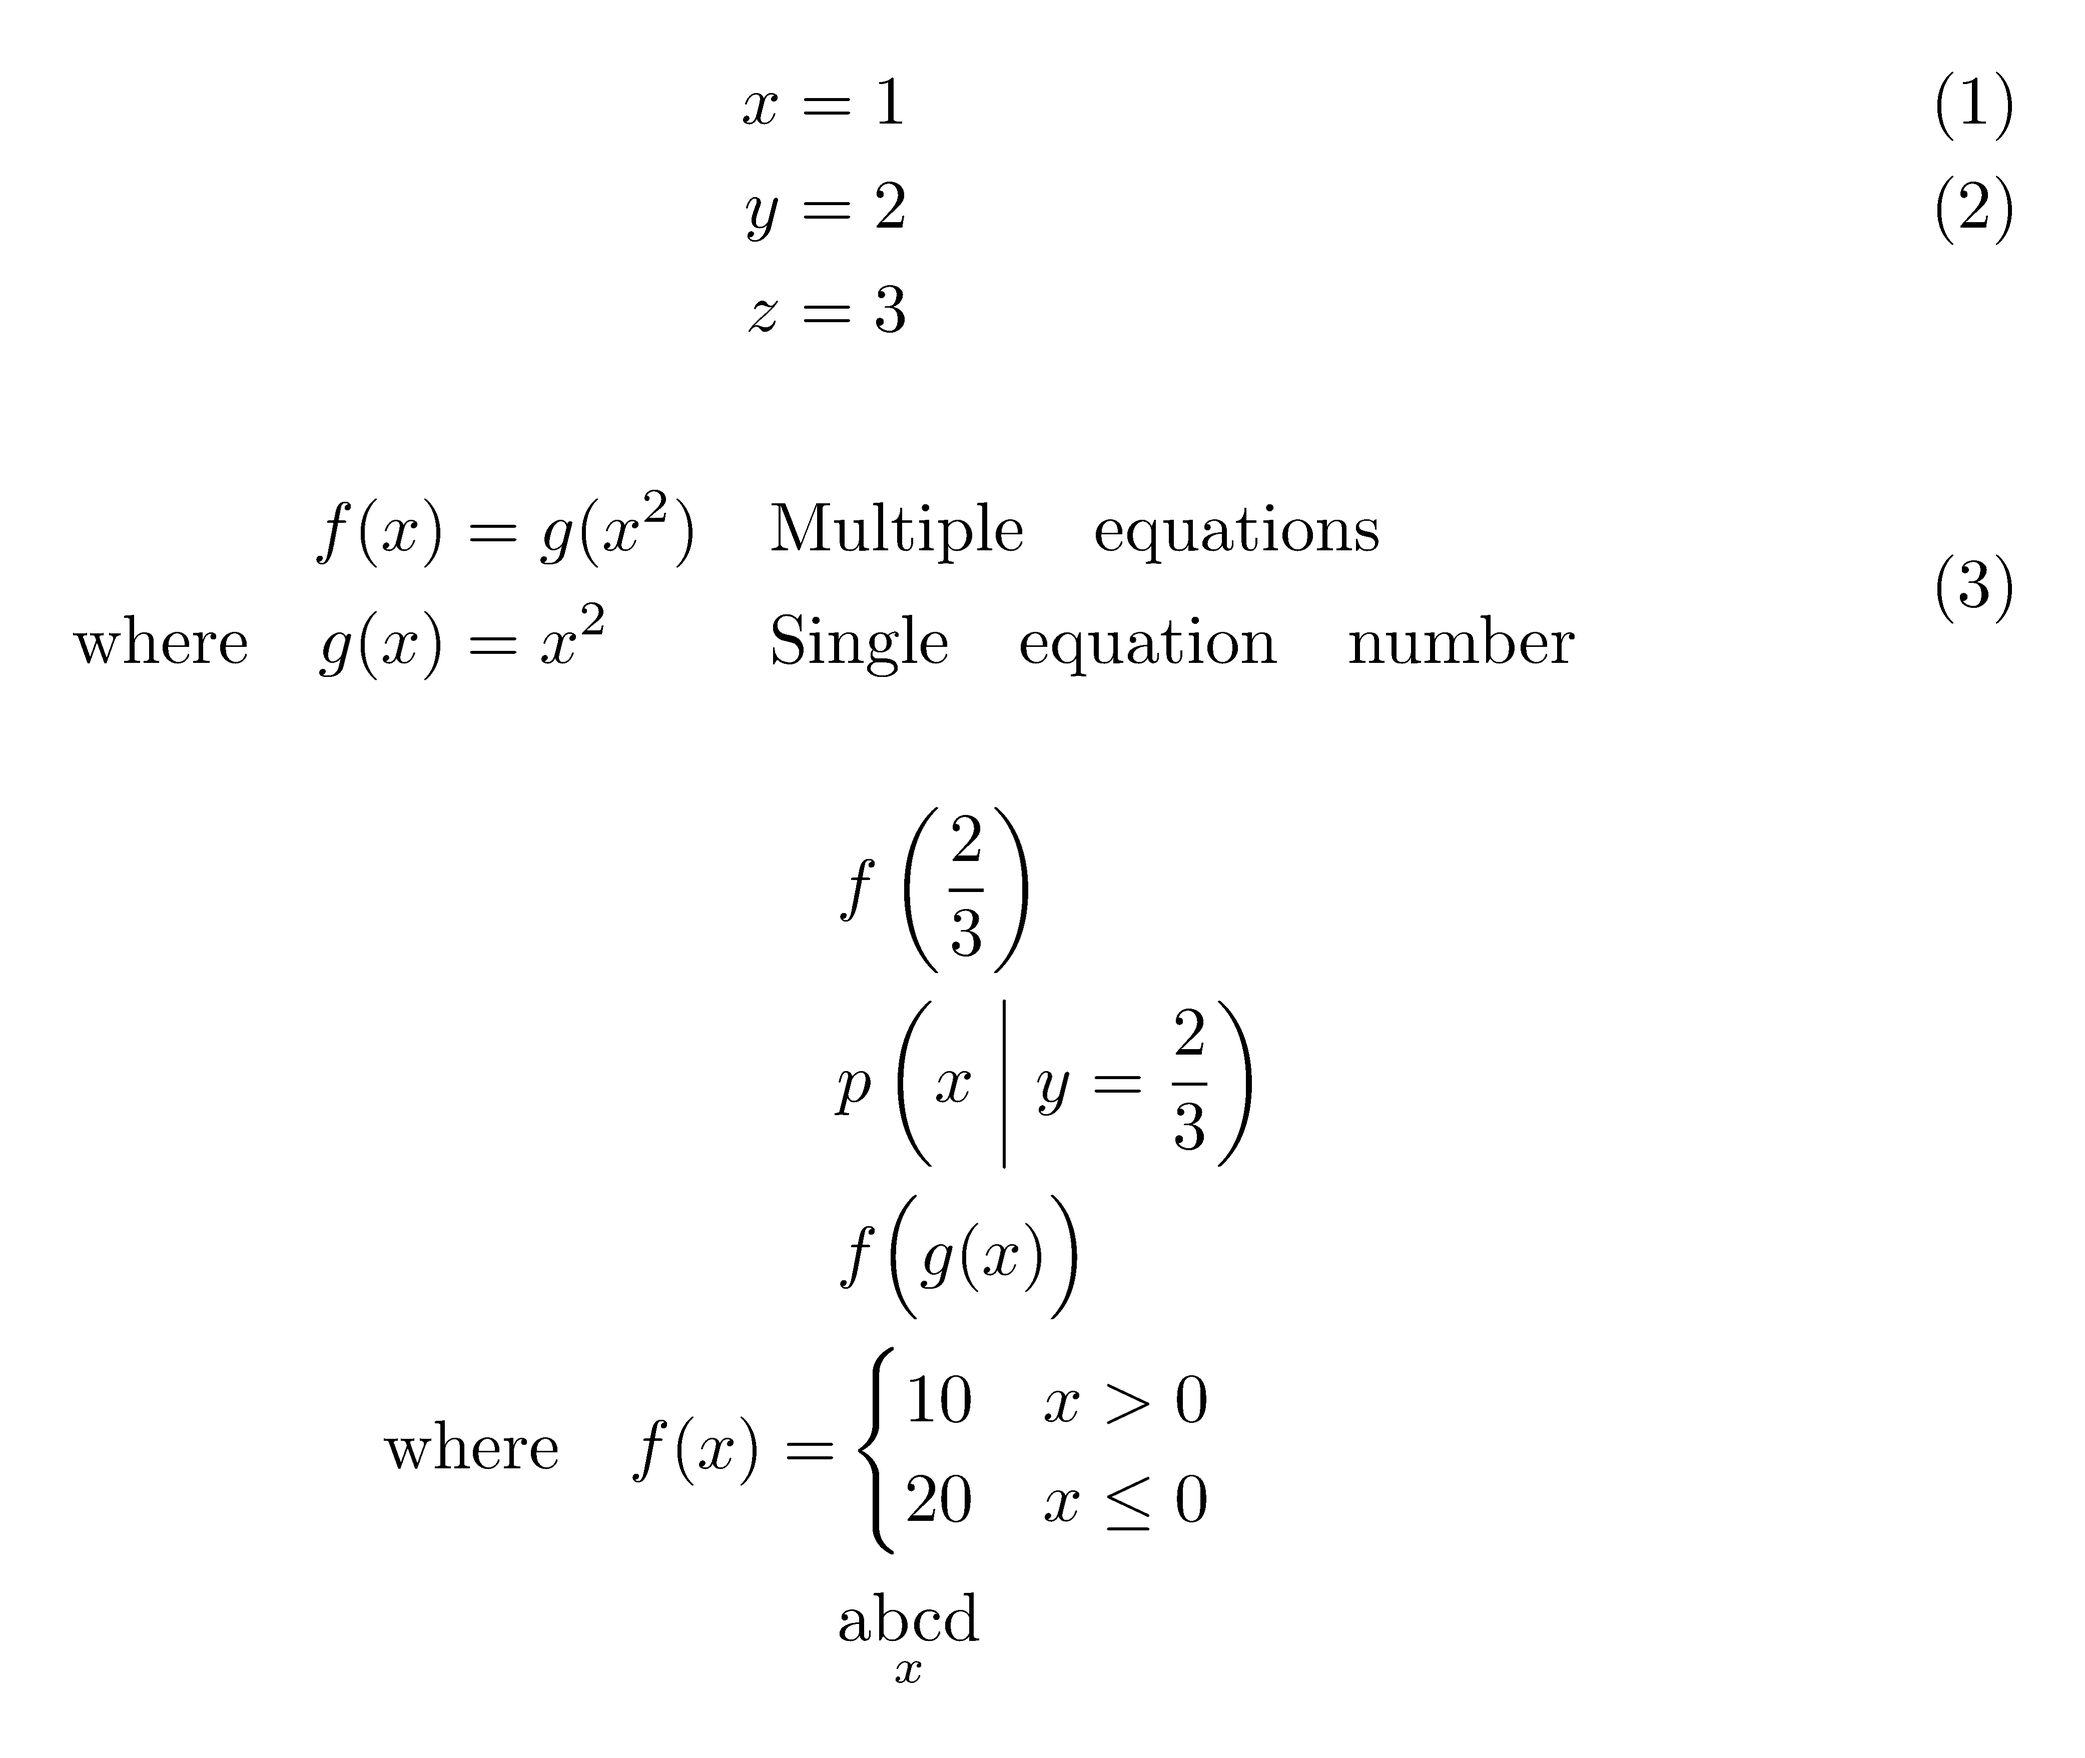
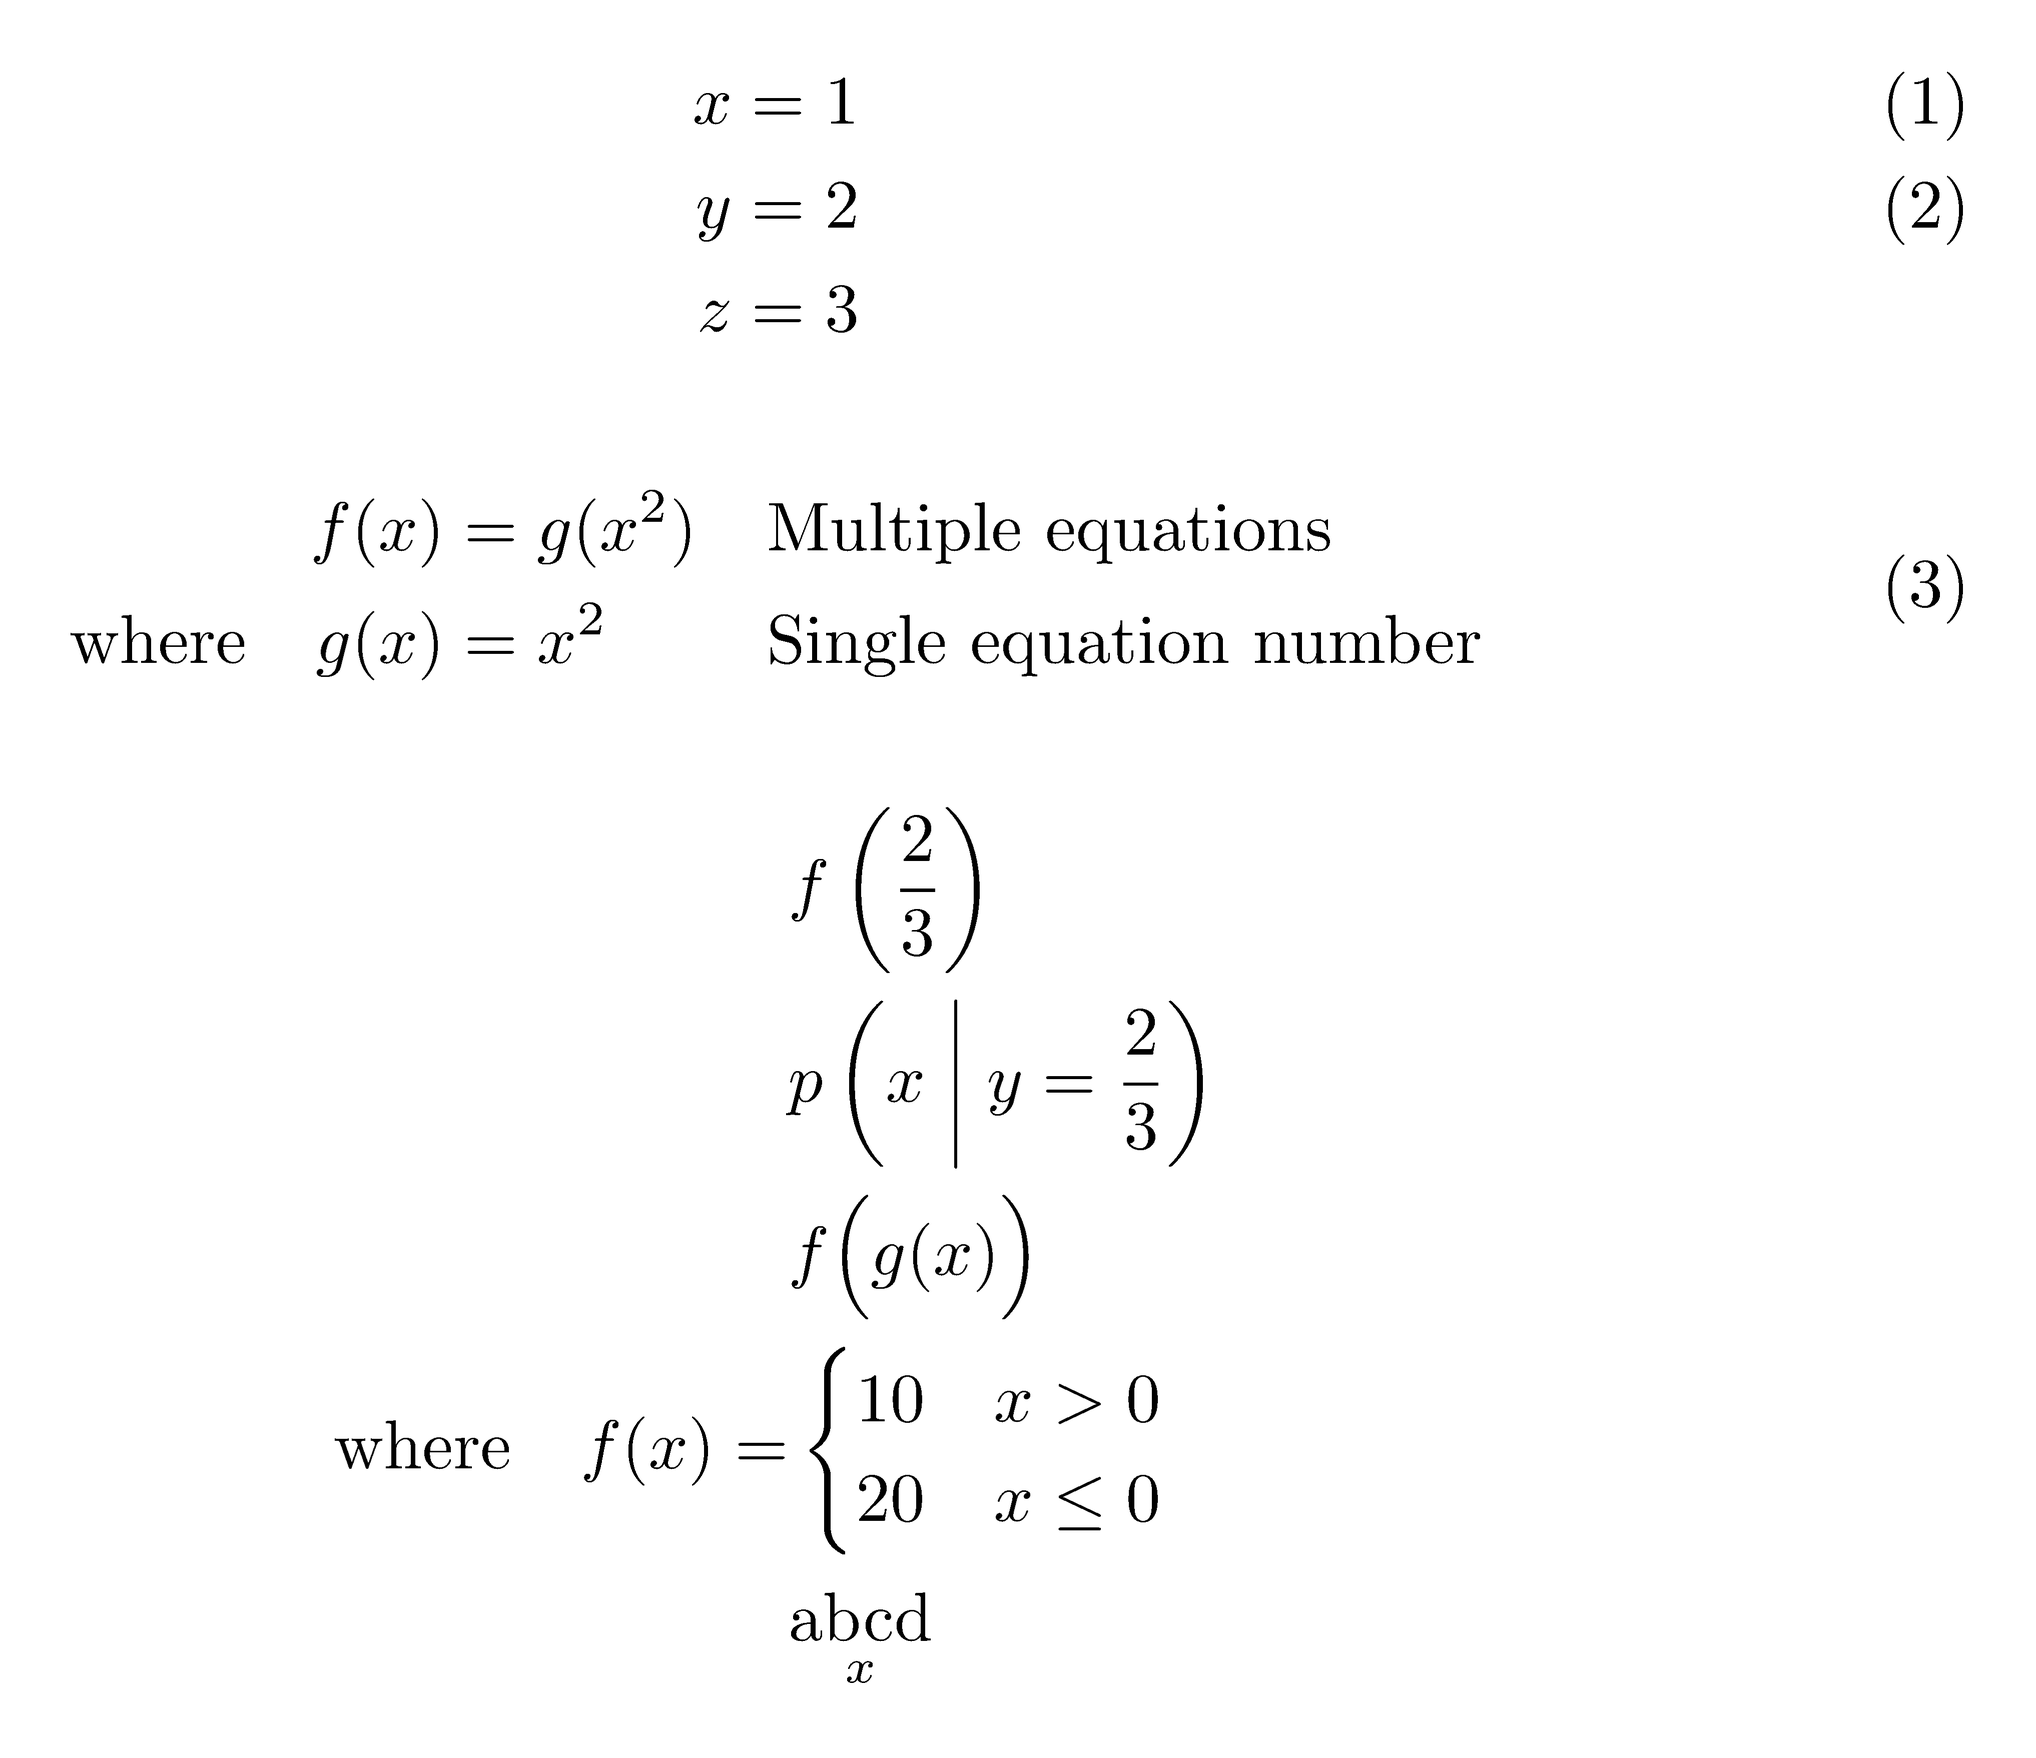
Use `\text` for text outside equation instead of `\mathrm`

diff --git a/topics/latex/Examples/equations/equations.tex b/topics/latex/Examples/equations/equations.tex
@@ -13,8 +13,8 @@
 
 \begin{equation}
 \begin{aligned}
-    f(x) &= g(x^2) && \mathrm{Multiple \quad equations} \\
-    \mathrm{where} \quad g(x) &= x^2 &&\mathrm{Single \quad equation \quad number}
+    f(x) &= g(x^2) && \text{Multiple equations} \\
+    \text{where} \quad g(x) &= x^2 && \text{Single equation number}
 \end{aligned}
 \end{equation}
 
@@ -22,7 +22,7 @@
     &f \left( \frac 2 3 \right) \\
     &p \left( x \;\middle\vert\; y = \frac 2 3 \right) \\
     &f \Bigl( g(x) \Bigr) \\
-    \mathrm{where} \quad f(x) = &\begin{cases}
+    \text{where} \quad f(x) = &\begin{cases}
         10 & x > 0 \\
         20 & x \le 0
     \end{cases} \\
